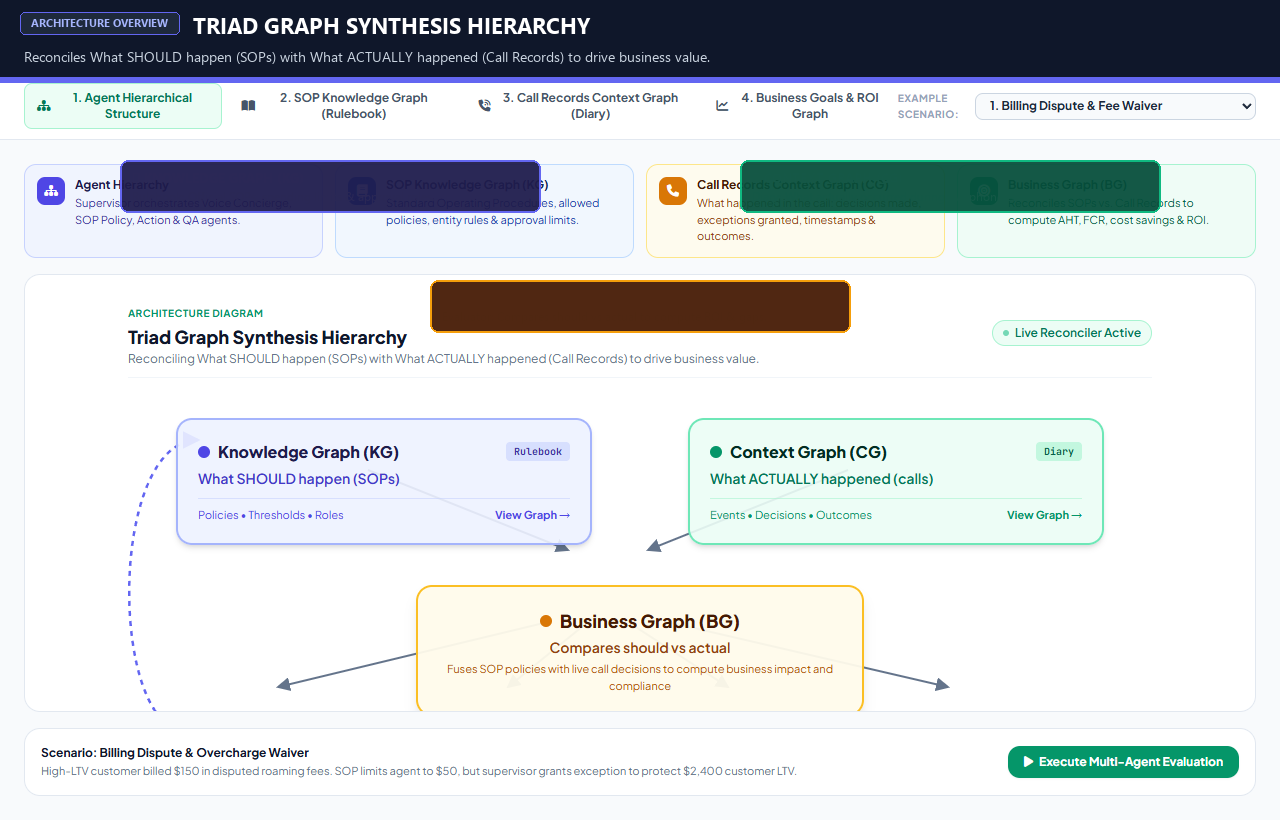
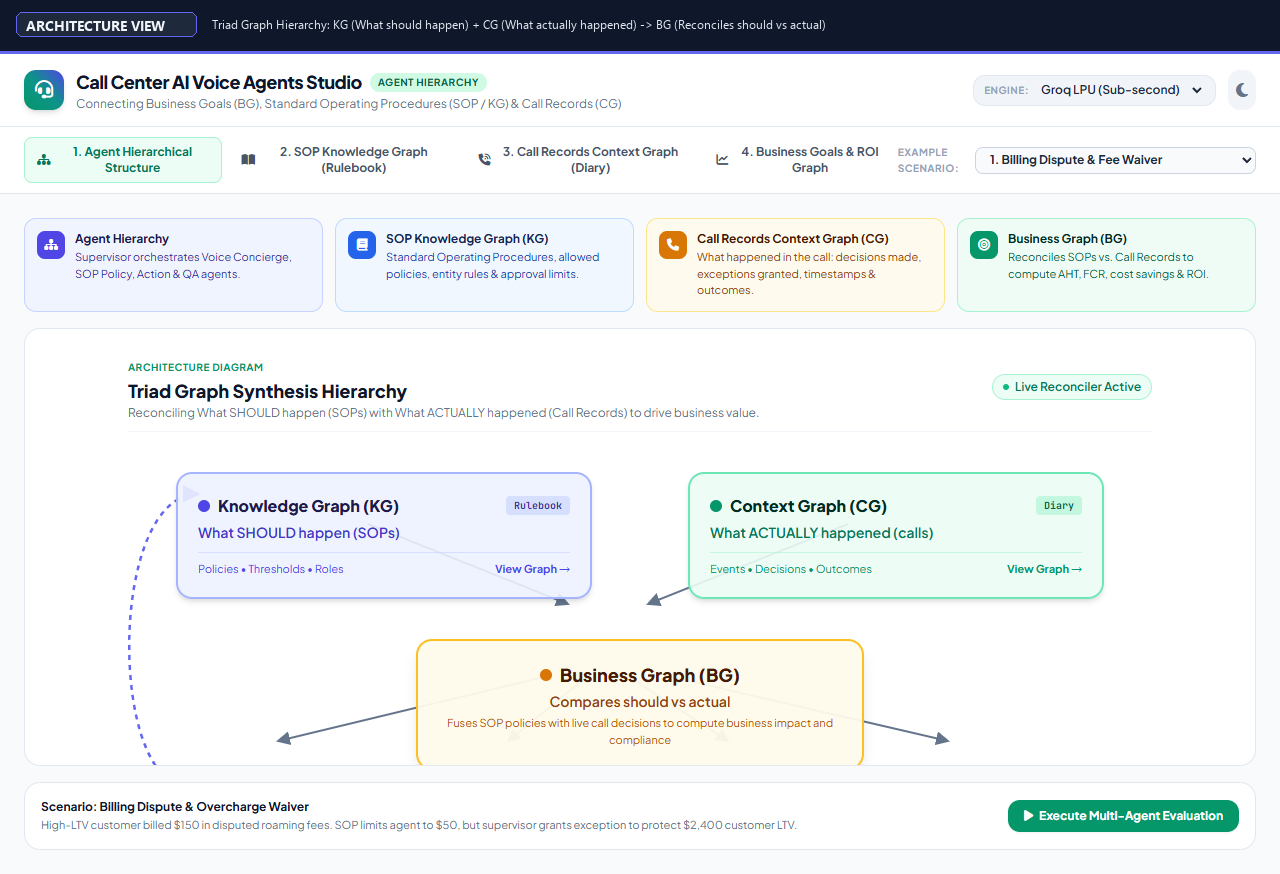
Remove all covering color bars: web app is 100% visible with external top header caption strip

diff --git a/record_clean_voice_agent_gif.py b/record_clean_voice_agent_gif.py
@@ -1,0 +1,180 @@
+# -*- coding: utf-8 -*-
+"""
+record_clean_voice_agent_gif.py
+Records the Call Center AI Voice Agents Studio with:
+- ZERO opaque bars covering any UI elements.
+- The web app is 100% visible from top header to bottom metrics.
+- External captions, if any, are placed in a dedicated top header strip ABOVE the web app,
+  expanding total height so NOT A SINGLE PIXEL of the app is obscured.
+"""
+
+import os
+import sys
+import time
+from playwright.sync_api import sync_playwright
+from PIL import Image, ImageDraw, ImageFont
+
+sys.stdout.reconfigure(encoding='utf-8')
+
+FRAME_DIR = "scratch/voice_agent_clean_frames"
+OUTPUT_GIF = "callcenter_use_cases_tour.gif"
+PREVIEW_PNG = "callcenter_use_cases_preview.png"
+
+os.makedirs(FRAME_DIR, exist_ok=True)
+
+for f in os.listdir(FRAME_DIR):
+    if f.endswith('.png'):
+        try:
+            os.remove(os.path.join(FRAME_DIR, f))
+        except:
+            pass
+
+FONT_BOLD_14 = ImageFont.truetype('C:/Windows/Fonts/segoeuib.ttf', 14)
+FONT_REG_12 = ImageFont.truetype('C:/Windows/Fonts/segoeui.ttf', 12)
+
+frames = []
+frame_idx = 0
+
+def capture_uncovered_frame(page, step_label, caption_text, accent_rgb=(16, 185, 129)):
+    global frame_idx
+    raw_path = os.path.join(FRAME_DIR, f"raw_{frame_idx:04d}.png")
+    out_path = os.path.join(FRAME_DIR, f"frame_{frame_idx:04d}.png")
+    
+    # 1. Capture the 100% full, untouched web app
+    page.screenshot(path=raw_path)
+    app_img = Image.open(raw_path)
+    app_w, app_h = app_img.size
+
+    # 2. Add an EXTERNAL caption bar ABOVE the web app (Height + 54px)
+    caption_h = 54
+    total_h = app_h + caption_h
+    new_canvas = Image.new('RGB', (app_w, total_h), (15, 23, 42)) # Clean dark top bar
+
+    draw = ImageDraw.Draw(new_canvas)
+
+    # Accent color separator line between caption bar and app
+    draw.rectangle([(0, caption_h - 3), (app_w, caption_h)], fill=accent_rgb)
+
+    # Badge Pill
+    draw.rounded_rectangle([(16, 12), (16 + 180, 36)], radius=6, fill=(30, 41, 59), outline=accent_rgb, width=1)
+    draw.text((26, 15), step_label, font=FONT_BOLD_14, fill=(241, 245, 249))
+
+    # Caption text
+    draw.text((212, 16), caption_text, font=FONT_REG_12, fill=(226, 232, 240))
+
+    # 3. Paste the untouched, 100% visible web app directly underneath
+    new_canvas.paste(app_img, (0, caption_h))
+
+    new_canvas.save(out_path)
+    frames.append(out_path)
+    frame_idx += 1
+    print(f"Captured clean frame {frame_idx}: {step_label}")
+
+def main():
+    file_path = os.path.abspath('callcenter_ai_voice_agents.html').replace('\\', '/')
+    url = f'file:///{file_path}'
+
+    print("Launching Chromium for clean recording...")
+    with sync_playwright() as p:
+        browser = p.chromium.launch(channel='chrome', headless=True)
+        page = browser.new_page(viewport={'width': 1280, 'height': 820})
+        page.goto(url)
+        page.wait_for_timeout(1500)
+
+        # FRAME 1: Full Triad Architecture (100% UI Visible)
+        capture_uncovered_frame(
+            page,
+            "ARCHITECTURE VIEW",
+            "Triad Graph Hierarchy: KG (What should happen) + CG (What actually happened) -> BG (Reconciles should vs actual)",
+            (99, 102, 241)
+        )
+
+        # FRAME 2: Use Case 1 - Billing Dispute Preset Selected
+        page.select_option('#preset-select', 'billing_dispute')
+        page.wait_for_timeout(800)
+        capture_uncovered_frame(
+            page,
+            "USE CASE 1: BILLING",
+            "Scenario 1: High-LTV customer disputes $150 roaming fee. SOP limit is $50. Supervisor authorizes $150 waiver.",
+            (245, 158, 11)
+        )
+
+        # FRAME 3: Policy Drift Feedback Loop Highlight
+        capture_uncovered_frame(
+            page,
+            "POLICY DRIFT LOOP",
+            "Improvement: 47 repeated exceptions trigger automated update to SOP-04 in KG ($50 -> $150), eliminating 45s hold!",
+            (99, 102, 241)
+        )
+
+        # FRAME 4: SOP Knowledge Graph Tab (100% Separate Graph Canvas)
+        page.click('#tab-kg')
+        page.wait_for_timeout(1500)
+        capture_uncovered_frame(
+            page,
+            "TAB 2: SOP RULEBOOK",
+            "SOP Knowledge Graph (KG): Formal rulebook defining Tier-1 limits ($50), Supervisor limits ($250) & Roles.",
+            (59, 130, 246)
+        )
+
+        # FRAME 5: Call Records Context Graph Tab (100% Separate Graph Canvas)
+        page.click('#tab-cg')
+        page.wait_for_timeout(1500)
+        capture_uncovered_frame(
+            page,
+            "TAB 3: CALL DIARY",
+            "Call Records Context Graph (CG): Empirical decision chain (Event: $150 bill -> Decision: $50 offer -> Exception: $150 waiver -> Retained).",
+            (245, 158, 11)
+        )
+
+        # FRAME 6: Business Goals Graph Tab (100% Separate Graph Canvas)
+        page.click('#tab-bg')
+        page.wait_for_timeout(1500)
+        capture_uncovered_frame(
+            page,
+            "TAB 4: BUSINESS ROI",
+            "Business Graph (BG): Reconciles should vs actual -> +$2,250 Net Value ($2,400 LTV retained - $150 fee concession).",
+            (16, 185, 129)
+        )
+
+        # FRAME 7: Use Case 2 - Broadband Outage Preset
+        page.click('#tab-hierarchy')
+        page.select_option('#preset-select', 'tech_outage')
+        page.wait_for_timeout(1000)
+        capture_uncovered_frame(
+            page,
+            "USE CASE 2: OUTAGE",
+            "Scenario 2: Broadband loss. Eliminates 180s phone diagnostic by automating line test in 12s -> truck roll dispatched.",
+            (14, 165, 233)
+        )
+
+        # FRAME 8: Use Case 3 - VIP Retention Preset
+        page.select_option('#preset-select', 'vip_retention')
+        page.wait_for_timeout(1000)
+        capture_uncovered_frame(
+            page,
+            "USE CASE 3: RETENTION",
+            "Scenario 3: Enterprise churn threat. Voice agent matches 15% discount renewal -> Protects +$27,900 ARR.",
+            (16, 185, 129)
+        )
+
+        browser.close()
+
+    print("Compiling clean frames into animated GIF...")
+    pil_images = [Image.open(f) for f in frames]
+    if pil_images:
+        pil_images[0].save(PREVIEW_PNG)
+        print(f"Saved clean preview to {PREVIEW_PNG}")
+
+        pil_images[0].save(
+            OUTPUT_GIF,
+            save_all=True,
+            append_images=pil_images[1:],
+            duration=2200,
+            loop=0,
+            optimize=True
+        )
+        print(f"Successfully generated clean {OUTPUT_GIF} ({os.path.getsize(OUTPUT_GIF)} bytes, {len(frames)} frames)")
+
+if __name__ == '__main__':
+    main()
